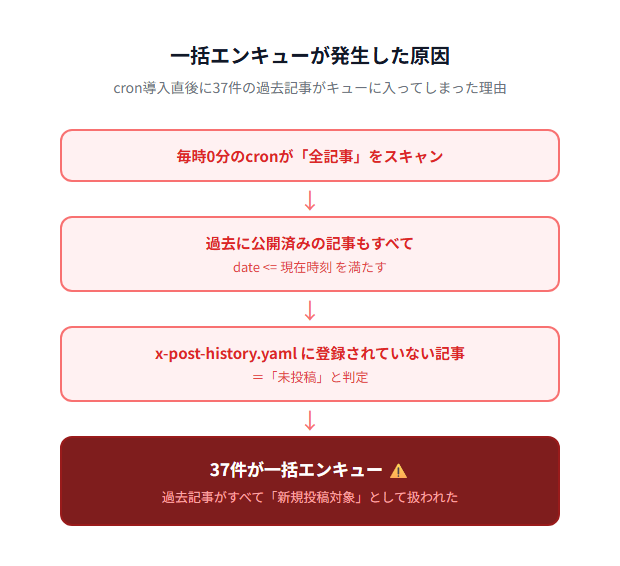
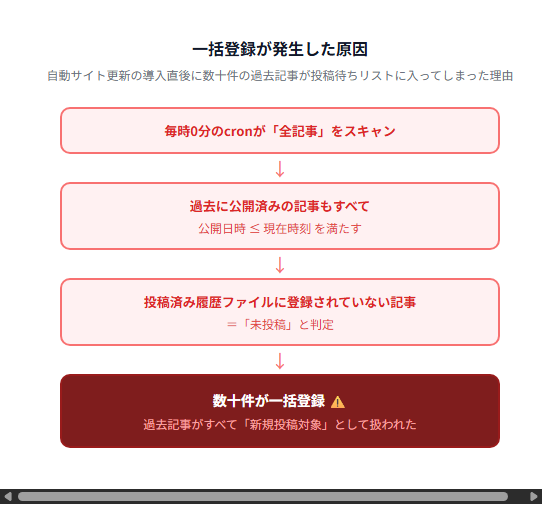
fix(image): rebuild bulk-enqueue-bug diagram with corrected text and font sizes
- Fix terminology: エンキュー->登録, 37件->数十件, x-post-history.yaml->投稿済み履歴ファイル
- Reduce font sizes to match article body (title 16px, steps 13-14px)
- Narrow width to 560px to prevent scrollbar

Changed region(s): [[0.0, 0.0607, 0.9714, 0.9715]]

diff --git a/tmp-diagram/x-autopost-bulk-enqueue-bug.html b/tmp-diagram/x-autopost-bulk-enqueue-bug.html
@@ -2,8 +2,7 @@
 <html lang="ja">
 <head>
 <meta charset="UTF-8">
-<meta name="viewport" content="width=device-width, initial-scale=1.0">
-<title>一括エンキューが発生した原因</title>
+<title>一括登録が発生した原因</title>
 <style>
   * {
     margin: 0;
@@ -12,32 +11,32 @@
   }
 
   body {
-    width: 620px;
+    width: 560px;
     background: #ffffff;
     font-family: "Hiragino Kaku Gothic Pro", "Noto Sans JP", "Yu Gothic", sans-serif;
-    padding: 40px 0;
+    padding: 36px 0 40px;
   }
 
   .container {
-    width: 620px;
+    width: 560px;
     display: flex;
     flex-direction: column;
     align-items: center;
   }
 
   .title {
-    font-size: 20px;
+    font-size: 16px;
     font-weight: bold;
     color: #111827;
     text-align: center;
-    margin-bottom: 8px;
+    margin-bottom: 6px;
   }
 
   .subtitle {
-    font-size: 14px;
+    font-size: 12px;
     color: #6b7280;
     text-align: center;
-    margin-bottom: 32px;
+    margin-bottom: 24px;
   }
 
   .flow {
@@ -47,94 +46,87 @@
     gap: 0;
   }
 
-  /* 通常ステップ（赤系） */
   .step {
-    width: 500px;
+    width: 440px;
     background: #fff1f2;
     border: 2px solid #f87171;
-    border-radius: 12px;
-    padding: 14px 20px;
+    border-radius: 10px;
+    padding: 12px 18px;
     text-align: center;
   }
 
   .step .main-text {
-    font-size: 15px;
+    font-size: 13px;
     font-weight: bold;
     color: #dc2626;
   }
 
   .step .sub-text {
-    font-size: 13px;
+    font-size: 12px;
     color: #dc2626;
     margin-top: 4px;
     opacity: 0.85;
   }
 
-  /* 最終ステップ（濃い赤） */
   .step-final {
-    width: 500px;
+    width: 440px;
     background: #7f1d1d;
     border: 2px solid #991b1b;
-    border-radius: 12px;
-    padding: 18px 20px;
+    border-radius: 10px;
+    padding: 14px 18px;
     text-align: center;
   }
 
   .step-final .main-text {
-    font-size: 17px;
+    font-size: 14px;
     font-weight: bold;
     color: #ffffff;
   }
 
   .step-final .sub-text {
-    font-size: 13px;
+    font-size: 12px;
     color: #fca5a5;
-    margin-top: 6px;
+    margin-top: 5px;
   }
 
-  /* 矢印 */
   .arrow {
-    font-size: 22px;
+    font-size: 18px;
     color: #f87171;
     line-height: 1;
-    padding: 6px 0;
+    padding: 5px 0;
     text-align: center;
   }
 </style>
 </head>
 <body>
 <div class="container">
-  <div class="title">一括エンキューが発生した原因</div>
-  <div class="subtitle">cron導入直後に37件の過去記事がキューに入ってしまった理由</div>
+  <div class="title">一括登録が発生した原因</div>
+  <div class="subtitle">自動サイト更新の導入直後に数十件の過去記事が投稿待ちリストに入ってしまった理由</div>
 
   <div class="flow">
 
-    <!-- ステップ1 -->
     <div class="step">
       <div class="main-text">毎時0分のcronが「全記事」をスキャン</div>
     </div>
 
     <div class="arrow">↓</div>
 
-    <!-- ステップ2 -->
     <div class="step">
       <div class="main-text">過去に公開済みの記事もすべて</div>
-      <div class="sub-text">date &lt;= 現在時刻 を満たす</div>
+      <div class="sub-text">公開日時 ≤ 現在時刻 を満たす</div>
     </div>
 
     <div class="arrow">↓</div>
 
-    <!-- ステップ3 -->
     <div class="step">
-      <div class="main-text">x-post-history.yaml に登録されていない記事</div>
+      <div class="main-text">投稿済み履歴ファイルに登録されていない記事</div>
       <div class="sub-text">＝「未投稿」と判定</div>
     </div>
 
     <div class="arrow">↓</div>
 
-    <!-- ステップ4（強調） -->
     <div class="step-final">
-      <div class="main-text">37件が一括エンキュー ⚠</div>
+      <div class="main-text">数十件が一括登録 ⚠</div>
       <div class="sub-text">過去記事がすべて「新規投稿対象」として扱われた</div>
     </div>
 
